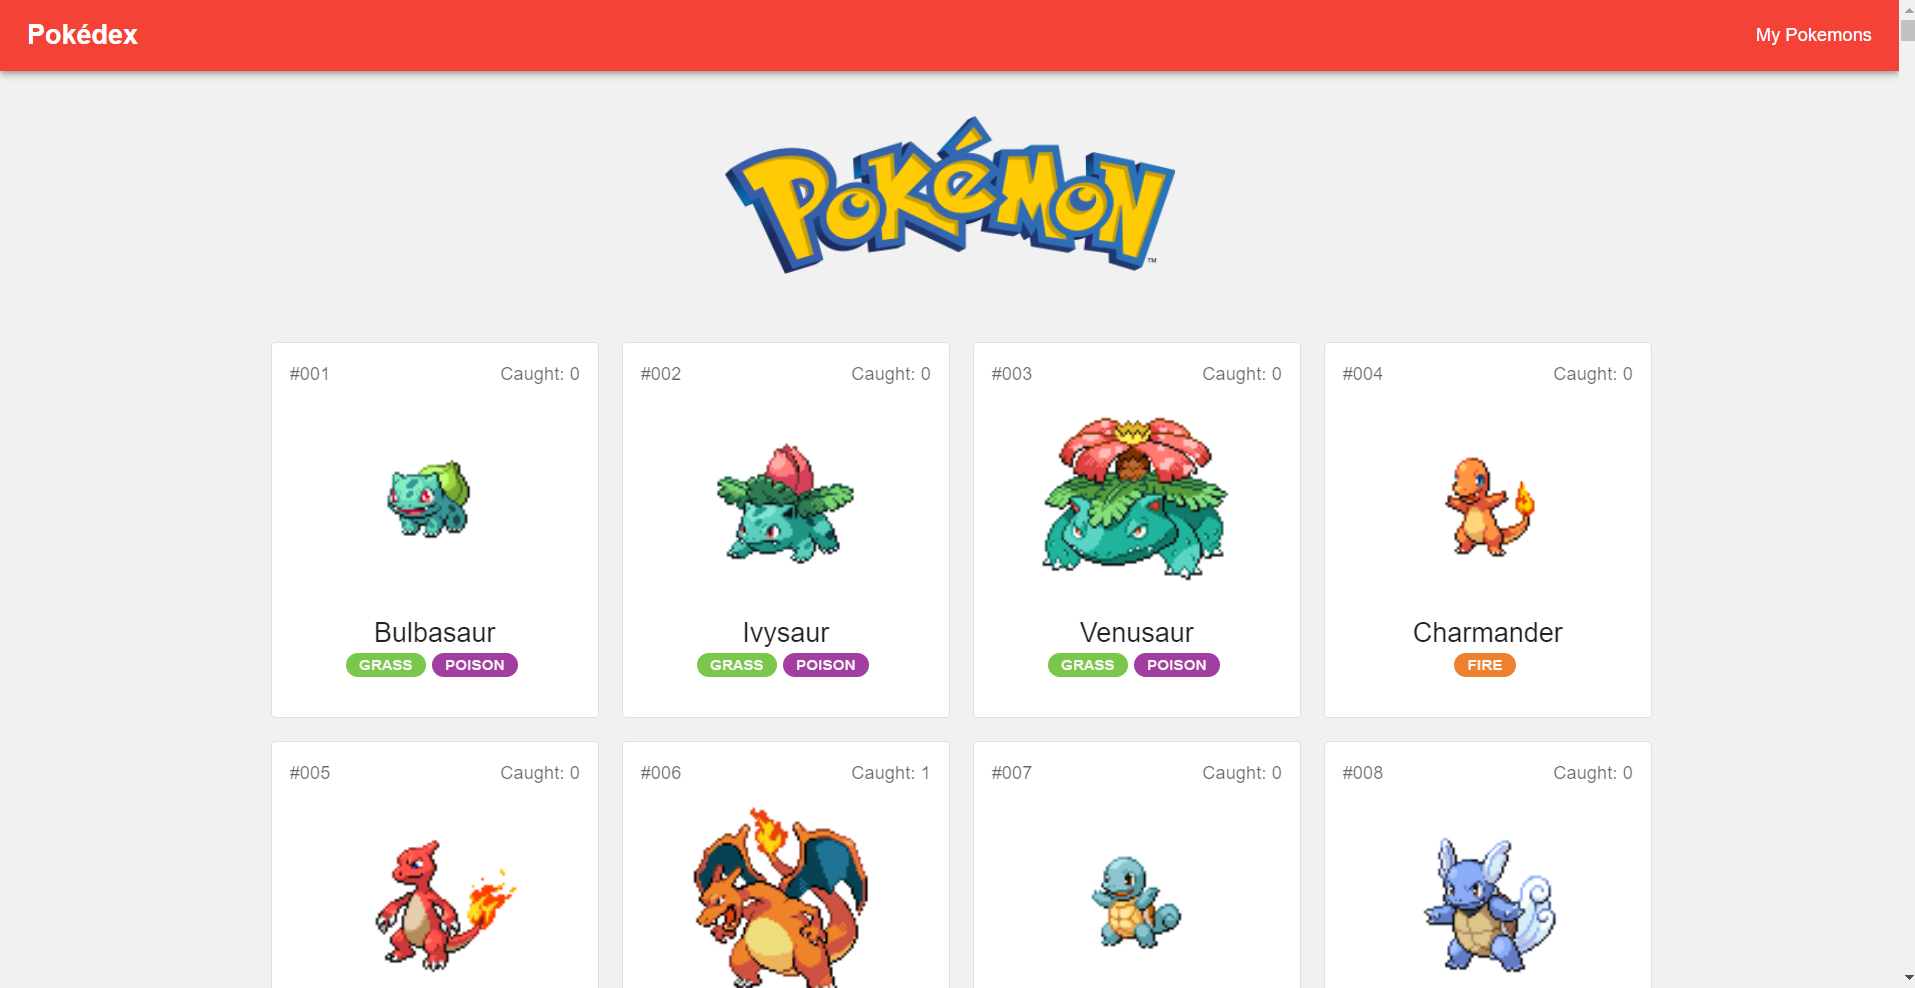
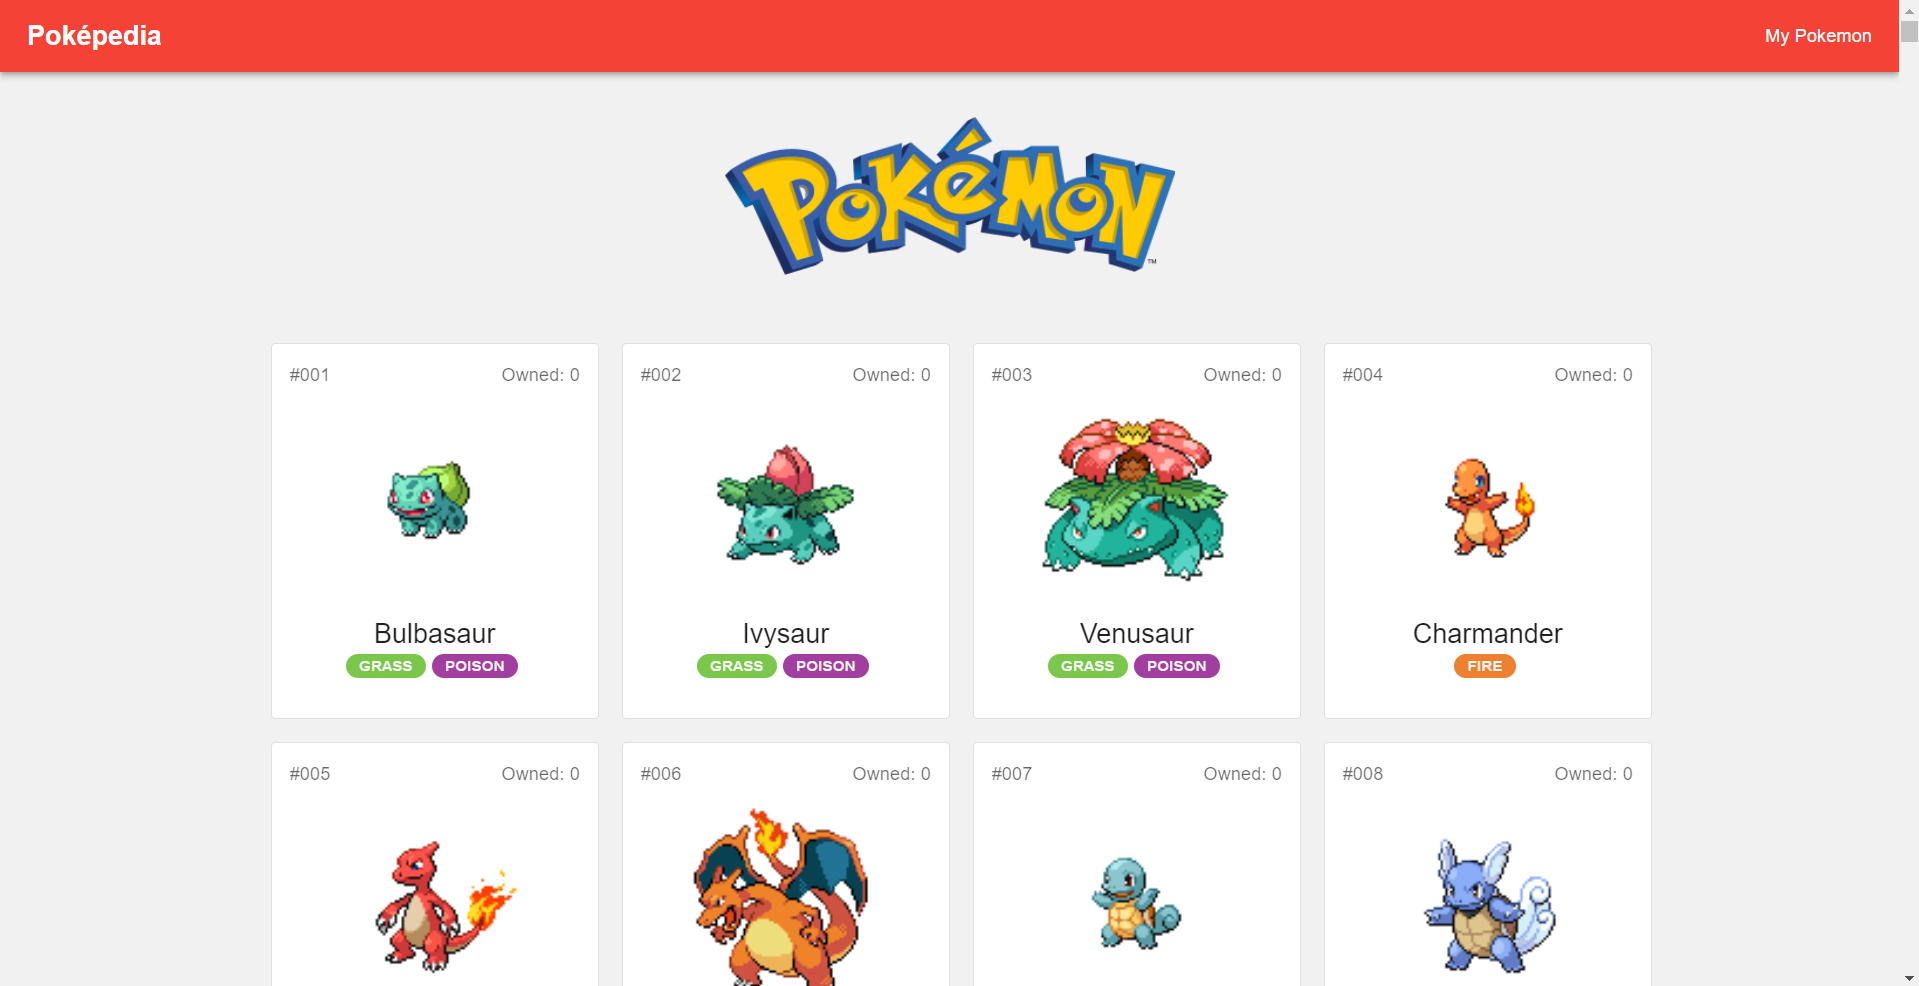
adding comments and finishing touches

diff --git a/src/Home.js b/src/Home.js
@@ -8,15 +8,21 @@ import PokemonLogo from "./images/pokemon-logo.png";
 import PokemonLogoSmall from "./images/pokemon-logo-small.png";
 import { Context } from "./store";
 import Loader from "./Components/Loader";
-
-const variables = {
-  limit: 24,
-  offset: 0,
-};
+import useWindowSize from "./hooks/useWindowSize";
 
 function Home() {
+  const size = useWindowSize();
+
+  let columnCount = 1;
+  if (size.width >= 1200) columnCount = 4;
+  else if (size.width >= 900) columnCount = 3;
+  else if (size.width >= 600) columnCount = 2;
+
   const { loading, error, data, fetchMore } = useQuery(GET_ALL_POKEMONS, {
-    variables,
+    variables: {
+      limit: columnCount * 4,
+      offset: 0,
+    },
   });
   const [, dispatch] = useContext(Context);
 
@@ -43,10 +49,8 @@ function Home() {
                 display: "block",
                 margin: "40px auto",
               }}
-              sizes="(max-width: 404px) 100vw, 404px"
-              srcSet={`
-              ${PokemonLogoSmall} 200w,
-              ${PokemonLogo} 404w`}
+              sizes="(max-width: 600px) 20vw, 404px"
+              srcSet={`${PokemonLogoSmall} 200w, ${PokemonLogo} 404w`}
               src={PokemonLogo}
               alt="Pokemon Logo"
             />

diff --git a/src/App.js b/src/App.js
@@ -14,7 +14,7 @@ import Loader from "./Components/Loader";
 
 const Home = lazy(() => import("./Home"));
 const Pokemon = lazy(() => import("./Pokemon"));
-const MyPokemons = lazy(() => import("./MyPokemons"));
+const MyPokemons = lazy(() => import("./MyPokemon"));
 
 export const themeOptions = {
   palette: {
@@ -54,9 +54,9 @@ function App() {
               underline="none"
               sx={{ color: "white" }}
               component={RouterLink}
-              to={"/my-pokemons"}
+              to={"/my-pokemon"}
             >
-              My Pokemons
+              My Pokemon
             </Link>
           </Toolbar>
         </AppBar>
@@ -73,7 +73,7 @@ function App() {
             <ScrollToTop path="/">
               <Home path="/" default />
               <Pokemon path="/pokemon/:name" />
-              <MyPokemons path="/my-pokemons" />
+              <MyPokemons path="/my-pokemon" />
             </ScrollToTop>
           </Router>
         </Suspense>

diff --git a/src/Components/PokemonCardsList.js b/src/Components/PokemonCardsList.js
@@ -57,10 +57,22 @@ function renderCell({ columnIndex, rowIndex, data, style }) {
       </GetPokemonTypes>
     </Link>
   ) : (
-    <PokemonCard error={true} style={style} />
+    <PokemonCard
+      error={true}
+      style={{
+        ...style,
+        left: style.left + (columnCount > 1 ? GUTTER_SIZE : GUTTER_SIZE / 2),
+        top: style.top + GUTTER_SIZE,
+        width: style.width - GUTTER_SIZE,
+        height: style.height - GUTTER_SIZE,
+      }}
+    />
   );
 }
 
+/*
+Adds padding to grid of cards
+*/
 const innerElementType = forwardRef(({ style, ...rest }, ref) => (
   <div
     ref={ref}

diff --git a/src/Components/Loader.js b/src/Components/Loader.js
@@ -2,7 +2,8 @@
 import Box from "@mui/material/Box";
 import { css, keyframes } from "@emotion/react";
 
-/* Custom Pokeball Loading Animation
+/*
+ Custom Pokeball Loading Animation
  */
 const roll = keyframes`
   0 { transform: translate(0, 0) rotate(0); }
@@ -14,7 +15,7 @@ function Loader() {
   return (
     <Box
       sx={{
-        height: "100vh",
+        height: "calc(100vh - 56px)",
         width: "100%",
         display: "flex",
         justifyContent: "center",

diff --git a/src/Components/GetPokemonTypes.js b/src/Components/GetPokemonTypes.js
@@ -3,6 +3,10 @@ import { useQuery } from "@apollo/client";
 import { GET_TYPE } from "../queries";
 import { Context } from "../store";
 
+/*
+  Just fetch a pokemon's types from the API
+  Used in Home since GET_ALL_POKEMONS doesn't return types
+*/
 export function GetPokemonTypes({ children, name, ...props }) {
   const { loading, error, data } = useQuery(GET_TYPE, { variables: { name } });
   const [, dispatch] = useContext(Context);

diff --git a/src/hooks/useLocalStorage.js b/src/hooks/useLocalStorage.js
@@ -1,5 +1,21 @@
 import { useState, useEffect } from "react";
 
+/*
+Adds values to LocalStorage
+Current Schema:
+{
+  myPokemon: [{
+    { 
+      name: String, 
+      id: number, 
+      types: [String], 
+      nickname: String, 
+      image: String 
+    }
+  }],
+  firstTimeOpen: bool
+}
+*/
 function getStorageValue(key, defaultValue) {
   if (typeof window !== "undefined") {
     const saved = localStorage.getItem(key);

diff --git a/public/index.html b/public/index.html
@@ -7,7 +7,7 @@
     <meta name="theme-color" content="#F44336" />
     <meta
       name="description"
-      content="An app that lists information about different Pokemons"
+      content="An app that lists information about different Pokemon"
     />
     <link rel="apple-touch-icon" href="%PUBLIC_URL%/apple-touch-icon.png" />
     <!--

diff --git a/src/Components/CountPokemon.js b/src/Components/CountPokemon.js
@@ -1,7 +1,7 @@
 import useLocalStorage from "../hooks/useLocalStorage";
 
 /* 
-  Counts the number of a type the user has caught
+  HOC that counts the number of a pokemon the user has caught
 */
 export function CountPokemon({ children, name, ...props }) {
   const [myPokemons] = useLocalStorage("myPokemon", []);

diff --git a/src/MyPokemon.js b/src/MyPokemon.js
@@ -39,7 +39,7 @@ function MyPokemons() {
     <main>
       <Container sx={{ pt: 2 }}>
         <Typography variant="h4" sx={{ pt: 2, pb: 2 }}>
-          My Pokemons
+          My Pokemon
         </Typography>
         <Grid container spacing={2}>
           {myPokemons.length > 0 ? (

diff --git a/src/hooks/useWindowSize.js b/src/hooks/useWindowSize.js
@@ -1,5 +1,9 @@
 import { useState, useEffect } from "react";
 
+/*
+Makes the component listen to window size
+Used for making responsive grids
+*/
 function useWindowSize() {
   const [windowSize, setWindowSize] = useState({
     width: window.innerWidth,
